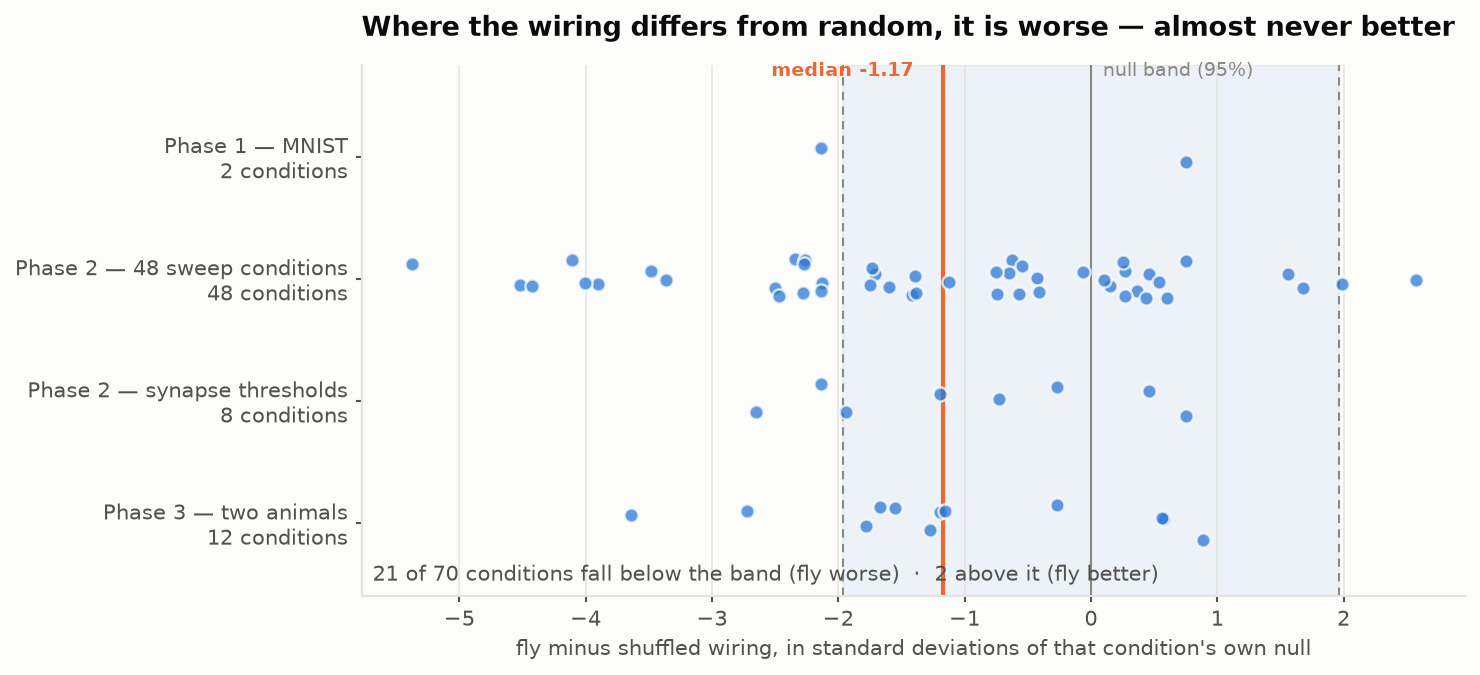
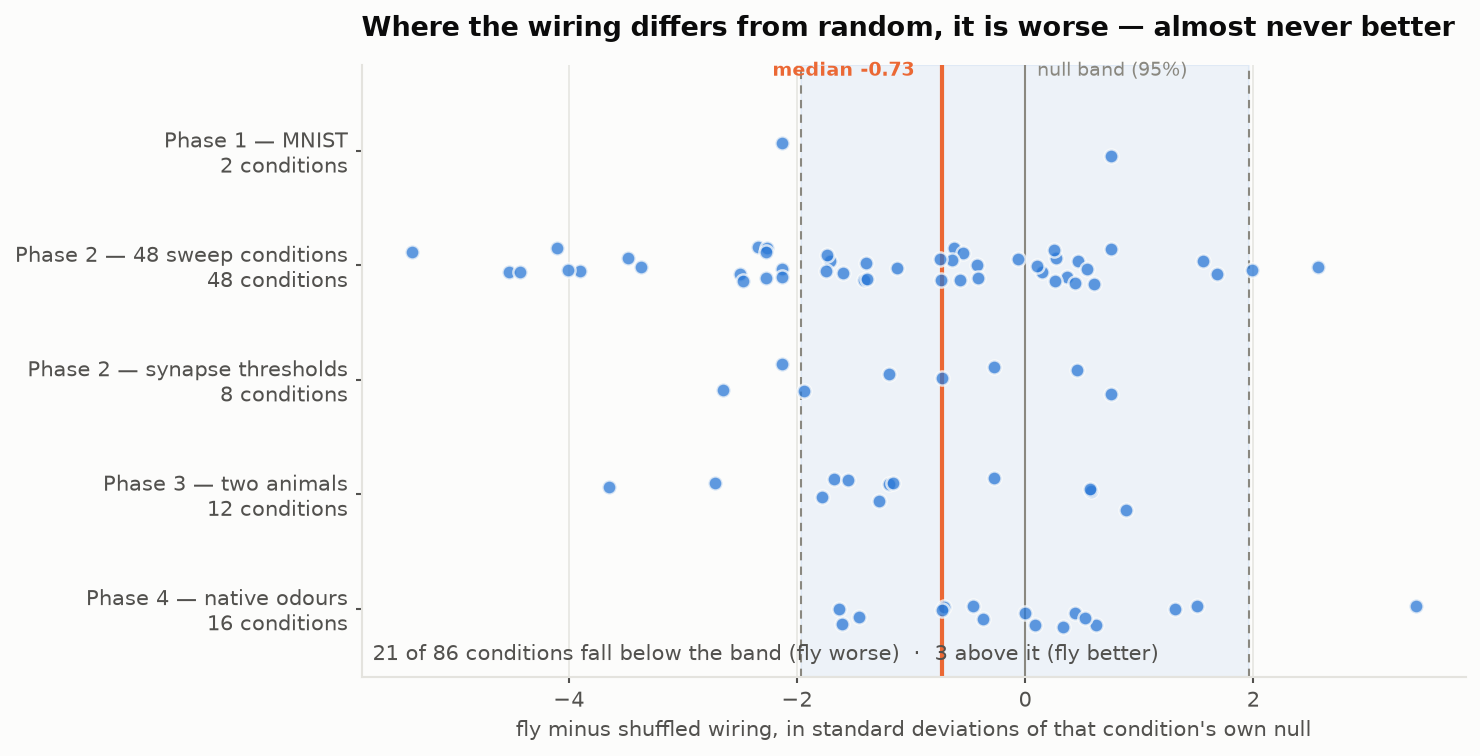
docs: document the odour phase and animate the null distribution
Adds the native-odour experiment to both the README and FINDINGS, and
folds its 16 conditions into the pooled figure, which now covers 86.

The GIF is the method in one loop: shuffles accumulate into the null
while the fly's score stays fixed, so the same hemisphere on the same
smells looks like a discovery at 5% sparsity and like nothing at 10%.

diff --git a/scripts/make_gif.py b/scripts/make_gif.py
@@ -1,0 +1,136 @@
+"""Animate the study's central method, and the fragility of its one spike.
+
+Both panels are the same hemisphere of the same fly on the same odour data.
+Only the sparsity differs. Shuffles accumulate one batch at a time into the
+null distribution while the measured wiring's score stays fixed, so you watch
+a convincing-looking result form on the left and dissolve on the right.
+
+Written as a GIF because it is meant for a README, which runs no JavaScript.
+"""
+
+from __future__ import annotations
+
+import argparse
+import json
+from pathlib import Path
+
+import matplotlib
+
+matplotlib.use("Agg")
+import matplotlib.pyplot as plt
+import numpy as np
+from matplotlib.animation import FuncAnimation, PillowWriter
+
+SURFACE = "#fcfcfb"
+INK = "#0b0b0b"
+INK_SOFT = "#52514e"
+INK_MUTED = "#8a8880"
+GRID = "#e4e3de"
+BLUE = "#2a78d6"
+ORANGE = "#eb6834"
+
+RESULTS = Path("results/odour-experiment.json")
+BATCH = 4
+HOLD_FRAMES = 14
+
+
+def panel_rows(rows, animal, side, fractions):
+    picked = []
+    for fraction in fractions:
+        match = [
+            r for r in rows
+            if r["animal"] == animal and r["side"] == side
+            and abs(r["hash_fraction"] - fraction) < 1e-9
+        ]
+        if not match:
+            raise SystemExit(f"no row for {animal} {side} at {fraction}")
+        picked.append(match[0])
+    return picked
+
+
+def main(argv: list[str] | None = None) -> int:
+    p = argparse.ArgumentParser(description="Animate the null distribution forming")
+    p.add_argument("--animal", default="male")
+    p.add_argument("--side", default="R")
+    p.add_argument("--out", default="docs/figures/null-forming.gif")
+    args = p.parse_args(argv)
+
+    rows = json.loads(RESULTS.read_text(encoding="utf-8"))
+    left, right = panel_rows(rows, args.animal, args.side, [0.05, 0.10])
+
+    fig, axes = plt.subplots(1, 2, figsize=(10.2, 4.6), dpi=110)
+    fig.patch.set_facecolor(SURFACE)
+    fig.subplots_adjust(top=0.74, bottom=0.13, left=0.05, right=0.97, wspace=0.16)
+
+    span = np.concatenate([
+        np.asarray(left["shuffled"]), np.asarray(right["shuffled"]),
+        [left["fly"], right["fly"]],
+    ])
+    lo, hi = span.min() - 0.012, span.max() + 0.012
+    bins = np.linspace(lo, hi, 34)
+
+    def setup(ax, row, title):
+        ax.set_facecolor(SURFACE)
+        for spine in ("top", "right", "left"):
+            ax.spines[spine].set_visible(False)
+        ax.spines["bottom"].set_color(GRID)
+        ax.tick_params(colors=INK_SOFT, labelsize=9, length=3)
+        ax.set_yticks([])
+        ax.set_xlim(lo, hi)
+        ax.set_ylim(0, 42)
+        ax.set_xlabel("mAP@10", fontsize=9.5, color=INK_SOFT)
+        ax.set_title(title, fontsize=11.5, color=INK, loc="left",
+                     fontweight="bold", pad=10)
+        ax.axvline(row["fly"], color=BLUE, linewidth=2.4, zorder=5)
+        near_right = row["fly"] > lo + 0.62 * (hi - lo)
+        ax.text(row["fly"], 34.0,
+                "measured wiring " if near_right else " measured wiring",
+                color=BLUE, fontsize=9.5, fontweight="bold", va="center",
+                ha="right" if near_right else "left", zorder=6)
+
+    setup(axes[0], left, f"{args.animal} {args.side} — 5% of cells active")
+    setup(axes[1], right, f"{args.animal} {args.side} — 10% of cells active")
+
+    caption = fig.text(0.5, 0.845, "", fontsize=10.5, color=INK_SOFT, ha="center")
+    # Verdicts live inside their own axes, so they cannot collide with titles.
+    verdicts = [
+        ax.text(0.98, 0.95, "", transform=ax.transAxes, fontsize=10,
+                ha="right", va="top", fontweight="bold", zorder=7)
+        for ax in axes
+    ]
+    fig.suptitle(
+        "The same fly, the same smells — only the sparsity changes",
+        fontsize=13.5, color=INK, fontweight="bold", y=0.96,
+    )
+
+    n_total = min(len(left["shuffled"]), len(right["shuffled"]))
+    steps = list(range(BATCH, n_total + 1, BATCH))
+    frames = steps + [n_total] * HOLD_FRAMES
+
+    def draw(count):
+        for ax, row in zip(axes, (left, right)):
+            for patch in list(ax.patches):
+                patch.remove()
+            drawn = np.asarray(row["shuffled"][:count])
+            ax.hist(drawn, bins=bins, color=INK_MUTED, alpha=0.75, zorder=3)
+        caption.set_text(f"{count} of {n_total} degree-preserving shuffles drawn")
+        for text, row in zip(verdicts, (left, right)):
+            drawn = np.asarray(row["shuffled"][:count])
+            below = int((drawn < row["fly"]).sum())
+            beats = below == count
+            text.set_text(f"{below} of {count} shuffles below the fly")
+            text.set_color(ORANGE if beats else INK_SOFT)
+        return []
+
+    animation = FuncAnimation(fig, draw, frames=frames, interval=110, blit=False)
+    out = Path(args.out)
+    out.parent.mkdir(parents=True, exist_ok=True)
+    animation.save(out, writer=PillowWriter(fps=9),
+                   savefig_kwargs={"facecolor": SURFACE})
+    plt.close(fig)
+    print(f"wrote {out}  ({out.stat().st_size / 1024:.0f} KB)")
+    return 0
+
+
+if __name__ == "__main__":
+    raise SystemExit(main())

diff --git a/scripts/make_figures.py b/scripts/make_figures.py
@@ -84,8 +84,9 @@ def fig_effect_against_null() -> None:
         ("Phase 2 — 48 sweep conditions", load("phase2-sweeps.json")),
         ("Phase 2 — synapse thresholds", load("phase2-threshold-sweep.json")),
         ("Phase 3 — two animals", load("phase3-replication.json")),
+        ("Phase 4 — native odours", load("odour-experiment.json")),
     ]
-    fig, ax = figure(9.5, 4.6)
+    fig, ax = figure(9.5, 5.3)
     rng = np.random.default_rng(0)
 
     ax.axvspan(-1.96, 1.96, color=BLUE, alpha=0.07, zorder=0)

diff --git a/docs/FINDINGS.md b/docs/FINDINGS.md
@@ -291,9 +291,11 @@
 
 ---
 
-# Сводка по всем трём фазам
+# Сводка по всем фазам
 
-Отдельный раздел, потому что объединённая картина оказалась **резче**, чем формулировки внутри фаз. Там ответ подавался как «ноль устоял»; объединение 70 условий показывает систематический сдвиг.
+Отдельный раздел, потому что объединённая картина оказалась **резче**, чем формулировки внутри фаз. Там ответ подавался как «ноль устоял»; объединение условий показывает систематический сдвиг.
+
+**Обновлено после фазы 4.** Числа ниже приведены в двух вариантах: по 70 условиям фаз 1–3 и по всем 86 с учётом одорантных. Одорантные условия центрированы ближе к нулю, поэтому общая медиана смещается к нулю, но направление не меняется.
 
 ## Направление по всем 70 условиям
 
@@ -302,6 +304,8 @@
 | Ниже нулевой полосы — **муха хуже** | **21** | 30% |
 | Внутри полосы | 47 | 67% |
 | Выше полосы — муха лучше | 2 | 3% |
+
+По всем 86 условиям, включая фазу 4: ниже полосы **21**, внутри **62**, выше **3**; медиана z = **-0.73**, среднее -0.90.
 
 Вердикты: 46 «разницы нет», 22 «муха хуже», 2 «муха лучше».
 
@@ -323,3 +327,75 @@
 ## Оговорка о независимости
 
 70 условий **не являются 70 независимыми проверками**. Они делят одну и ту же проводку, один и тот же способ сжатия входа и одни и те же данные; фазы 2 и 3 многократно перемеряют один и тот же контур при разных настройках. Систематический сдвиг медианы правильнее читать как **одно свойство схемы, измеренное семьдесят раз**, а не как семьдесят подтверждений. Поправки на множественные сравнения к такому набору неприменимы.
+
+---
+
+# Фаза 4: родная модальность с сохранением тождества каналов
+
+**Дата прогона:** 2026-09-13
+**Данные:** Hallem & Carlson (2006), *Cell* 125:143 — 110 одорантов против 24 рецепторов, через базу [DoOR](https://neuro.uni-konstanz.de/DoOR/)
+**Воспроизведение:** `python scripts/odour_experiment.py` — минуты
+
+## 1. Зачем эта фаза понадобилась
+
+Фазы 1–3 содержали **дыру, которую не закрывала ни одна проверка устойчивости**, и она же есть в статье 2017 года.
+
+Вход подавался через случайную гауссову проекцию 784 → 149. После неё проекционный нейрон №37 несёт случайную смесь всех пикселей и не значит ничего. Если настоящая проводка устроена по принципу «эта клетка Кеньона собирает входы с гломерул DA1, VA1v и DM1, потому что именно эти запахи статистически связаны», то при случайном назначении каналов такая структура становится бессмысленной — и перетасовка не может её испортить, потому что портить уже нечего.
+
+То есть **эксперимент физически не мог обнаружить проводку, настроенную под конкретные каналы.** Сравнение оставалось честным (перетасовка шла по тому же скремблированному входу), но целая область, где эффект мог бы жить, была вырезана из рассмотрения.
+
+Фаза 4 эту область возвращает.
+
+## 2. Как устроено
+
+**Компрессора нет.** Рецептор Or22a подаётся в гломерулу DM2, а DM2 — в те самые проекционные нейроны, которые коннектом называет DM2. Соответствие берётся из `door_mappings.csv` и совпадает с именами гломерул в обоих коннектомах дословно.
+
+- Or33b исключён: он ко-экспрессируется сразу в двух гломерулах (DM5+DM3).
+- Оставшиеся **23 канала присутствуют во всех четырёх полушариях обеих мух** — 23 из 23.
+- Отклики переведены в частоту разрядов как `SFR + Δ` с отсечением по нулю: опубликованная матрица даёт отклонение от спонтанной активности, а частота не бывает отрицательной.
+- Эталон — ближайшие соседи среди 110 одорантов в исходном 23-мерном пространстве частот, метрика mAP@10.
+
+Одорант возбуждает лишь 23 гломерулы из 62, поэтому клетка Кеньона получает в среднем **2.18 возбуждённого входа у самца и 1.90 у самки** из своих ~5. Это биологически корректно: муха, нюхающая одно вещество, и правда не задействует все гломерулы.
+
+**Перетасовка идёт по полной матрице всех 62 гломерул**, и лишь потом вход ограничивается 23 каналами. Именно это проверяет утверждение «важно, какие конкретно гломерулы слушает данная клетка».
+
+## 3. Результат
+
+Из 16 условий (4 полушария × 4 длины хеша) значимо **ровно одно**.
+
+| Полушарие | 2% | 5% | 10% | 20% |
+|---|---|---|---|---|
+| самец L | +0.44 | −1.61 | −0.45 | +0.09 |
+| **самец R** | +1.31 | **+3.42** | **−0.00** | +0.33 |
+| самка L | +0.62 | −0.71 | +0.53 | −1.63 |
+| самка R | −0.72 | −0.37 | +1.51 | −1.46 |
+
+*(значения z; при 5% у самца R все 200 перетасовок из 200 оказались ниже мухи)*
+
+**Находка не выдерживает проверки.** При смене разреженности с 5% на 10% то же полушарие даёт z = −0.00 ровно. Настоящее преимущество проводки не может испаряться от такой замены. Дополнительно: у того же самца левое полушарие идёт в минус (−1.61), а разрыв между его полушариями по абсолютному mAP составил 0.0665 — больше самого эффекта.
+
+Проверки при 5% вокруг найденной точки: 5 соседей z = +2.87, 20 соседей +1.54, косинусный эталон +1.24. То есть эффект слабеет при любом отходе от конкретной комбинации.
+
+## 4. Модальность влияет на качество, но не на ответ
+
+При **сопоставимой** сложности — 110 объектов, 10 соседей, то же полушарие, тот же k:
+
+| | муха | перетасовка |
+|---|---|---|
+| Одоранты, 23 родных канала, без компрессора | **0.6004** | 0.5528 |
+| MNIST, 784 измерения через случайный компрессор | 0.4137 | 0.4258 |
+
+Переход на родные данные поднимает качество почти в полтора раза — это реальный и ожидаемый эффект. Но поднимает он **обоих**: перетасовку на +0.127, муху на +0.187. Весь перевес мухи приходится ровно на то единственное неустойчивое условие (самец R, 5%).
+
+## 5. Что это меняет для выводов работы
+
+**Закрыта методологическая дыра, а не получен новый ответ.** Раньше на любой отрицательный результат можно было возразить: «вы подавали не те данные не туда, случайный компрессор уничтожил всю структуру». Теперь это возражение снято — на родных данных с точным соответствием каналов ответ тот же.
+
+Сформулировать честно можно так: выбор конкретных партнёров PN→KC не даёт преимущества в поиске ближайших соседей **ни на чужой модальности, ни на своей собственной**.
+
+## 6. Оговорки
+
+- **База крошечная — 110 одорантов.** Это весь опубликованный набор, но он на два порядка меньше, чем в фазах 1–3, поэтому mAP между фазами напрямую несравнимы (§4 сравнивает при выровненной сложности именно поэтому).
+- Использованы 23 канала из ~50 гломерул мухи. Остальные просто не измерены Hallem и Carlson.
+- Матрица получена из DoOR, а не из оригинальной таблицы S1 статьи; DoOR приводит значения того же препарата (`Hallem.2006.EN`), но сверки с печатной таблицей не проводилось.
+- 16 условий — это **не** 16 независимых проверок: четыре длины хеша меряют один и тот же контур, а перетасовки внутри полушария переиспользуются между длинами (намеренно, ради парного сравнения).

diff --git a/README.md b/README.md
@@ -29,10 +29,10 @@ If evolution tuned those partner choices for anything like similarity search, it
 ## The answer
 
 <p align="center">
-  <img src="docs/figures/fig1-effect-against-null.png" alt="Across 70 conditions, the measured wiring sits at or below its own null distribution, with a median of -1.17 standard deviations" width="100%">
+  <img src="docs/figures/fig1-effect-against-null.png" alt="Across 86 conditions spanning four phases, the measured wiring sits at or below its own null distribution far more often than above" width="100%">
 </p>
 
-Across **70 conditions** — four synapse thresholds, three datasets, two input granularities, four hash lengths, four inhibition strengths, two animals — the measured wiring landed *below* its own null distribution 21 times and *above* it twice. The median sits 1.17 standard deviations on the wrong side of zero.
+Across **86 conditions** — four synapse thresholds, four datasets including the fly's own odour repertoire, two input granularities, four hash lengths, four inhibition strengths, two animals — the measured wiring landed *below* its own null distribution far more often than above. It fell below the band **21 times** and above it **3**; the median sits 0.73 standard deviations on the wrong side of zero.
 
 The effect is real but tiny, and the right way to see how tiny is to measure it against the fly's own biology:
 
@@ -67,6 +67,34 @@ The shuffle was verified to reach equilibrium, not merely to look shuffled: over
 The whole pipeline was re-run on the [FlyWire](https://flywire.ai/) **female** brain, reconstructed by a different laboratory (Princeton) from a different electron-microscopy volume. Zero conditions favoured the fly in either animal.
 
 This required care: FlyWire's published connection table is effectively thresholded at 5 synapses per pair, while the male dataset was processed at 3. Comparing them directly would have **confounded sex with the edge-inclusion criterion** and produced what looked like a biological difference. The male is therefore compared at a matched threshold of 5.
+
+---
+
+## Closing the biggest hole: testing it on smells
+
+Everything above — and the 2017 paper too — pushes images or word vectors through an *olfactory* circuit using a random compressor. That compressor is a problem nobody had named:
+
+> After a random projection from 784 pixels to 149 projection neurons, **neuron #37 carries a random mixture of every pixel and means nothing.** If the real wiring says "this Kenyon cell samples glomeruli DA1, VA1v and DM1 because those odours co-occur," that structure is meaningless once the channels are scrambled — and a shuffle cannot destroy what is already destroyed.
+
+So the experiment was structurally incapable of detecting wiring tuned to specific input channels. The comparison stayed fair, but a whole region where the effect could live had been cut out of it.
+
+**So we ran it on the circuit's actual job.** Real odour responses — [Hallem & Carlson 2006](https://www.cell.com/fulltext/S0092-8674(06)00363-1), 110 odorants against 24 receptors — with the mapping kept exact: receptor Or22a feeds glomerulus DM2, which feeds the projection neurons the connectome calls DM2. No compressor. All 23 unambiguous channels are present in all four hemispheres of both animals.
+
+<p align="center">
+  <img src="docs/figures/fig6-odour.png" alt="Of 16 conditions only one is significant, and it vanishes when sparsity changes; native odour data lifts the fly and the shuffle alike" width="100%">
+</p>
+
+<p align="center">
+  <img src="docs/figures/null-forming.gif" alt="Shuffles accumulate into the null distribution: at 5% sparsity the fly sits outside it, at 10% it sits in the middle" width="100%">
+</p>
+
+The animation is the study's whole method in one loop. Degree-preserving shuffles accumulate into the null distribution while the measured wiring's score stays fixed. On the left it looks like a discovery; on the right — same fly, same smells, one dial moved — it is nothing.
+
+Of 16 conditions, exactly one reaches significance: the male right hemisphere at 5% sparsity, where **all 200 of 200 shuffles score below the fly** (z = +3.42). It looks like a discovery until you move one dial — at 10% sparsity the same hemisphere scores **z = −0.00**, and the same animal's left hemisphere runs negative throughout. A real advantage in wiring does not evaporate because you changed the sparsity from 5% to 10%.
+
+Native data *does* matter for performance — at matched difficulty it lifts mAP from 0.41 to 0.60 — but it lifts the degree-preserving shuffle just as much. **Modality changes how well the circuit works; it does not change whether the real wiring beats random.**
+
+This is the strongest form of the result. The obvious objection to any negative finding here — *you fed it the wrong data through the wrong door* — no longer applies.
 
 ---
 
@@ -139,7 +167,8 @@ Knowing the size of the *absence* is useful. Any future claim that connectome st
 - **Not** that FlyHash fails. It works; it just does not need the real wiring.
 - **Not** that the mushroom body is unstructured. It is measured against *one* task. Partner choice may well be tuned for odour discrimination, learning, or valence assignment — none of which this tests.
 - **Not** a refutation of the 2017 paper's FlyHash-versus-LSH comparison. The "LSH" baseline here is a dense Gaussian projection through the same top-k sparsification, **not** the sign-bit Hamming LSH of the literature. That comparison is untested here, in either direction.
-- **Not** independent evidence 70 times over. The conditions share a circuit, a compression matrix and a dataset; they are one property measured repeatedly.
+- **Not** a full olfactory test. The odour experiment uses 23 of the fly's ~50 glomeruli and a database of only 110 odorants — the entire published set, but two orders of magnitude smaller than the other benchmarks.
+- **Not** independent evidence 86 times over. The conditions share a circuit, a compression matrix and a dataset; they are one property measured repeatedly.
 
 Every deviation from the pre-registered plan is listed in [FINDINGS.md](docs/FINDINGS.md) — including a Euclidean ground truth where cosine was specified for GloVe, and a mean-normalisation step that is pathological on GloVe vectors (4815 of 10000 have a negative mean and get sign-flipped).
 
@@ -159,7 +188,9 @@ python -m flyhash.phase1              # ~11 min — the core comparison, MNIST
 python -m flyhash.phase2              # ~75 min — 48 robustness conditions
 python -m flyhash.phase3              # ~20 min — male versus female
 python scripts/threshold_sweep.py     # ~15 min — synapse-weight thresholds
+python scripts/odour_experiment.py    # ~3 min  — the fly's own modality
 python scripts/make_figures.py        # the figures above
+python scripts/make_gif.py            # the animation
 ```
 
 Timings are from one desktop machine; they scale with the number of shuffles, which every runner exposes as `--shuffles`.
@@ -181,6 +212,7 @@ To rebuild the circuits from raw connectome data, fetch the source files into `d
 | `src/flyhash/encode.py` | normalise → compress → project → winner-take-all |
 | `src/flyhash/bench.py` | exact ground truth and mAP@100 |
 | `src/flyhash/phase1/2/3.py` | the three experiments |
+| `scripts/odour_experiment.py` | the native-odour test, with channel identity preserved |
 | `results/` | every number reported here |
 | `docs/spec.md` | the pre-registered design, written before any run |
 | `docs/FINDINGS.md` | results, deviations and caveats in full |
